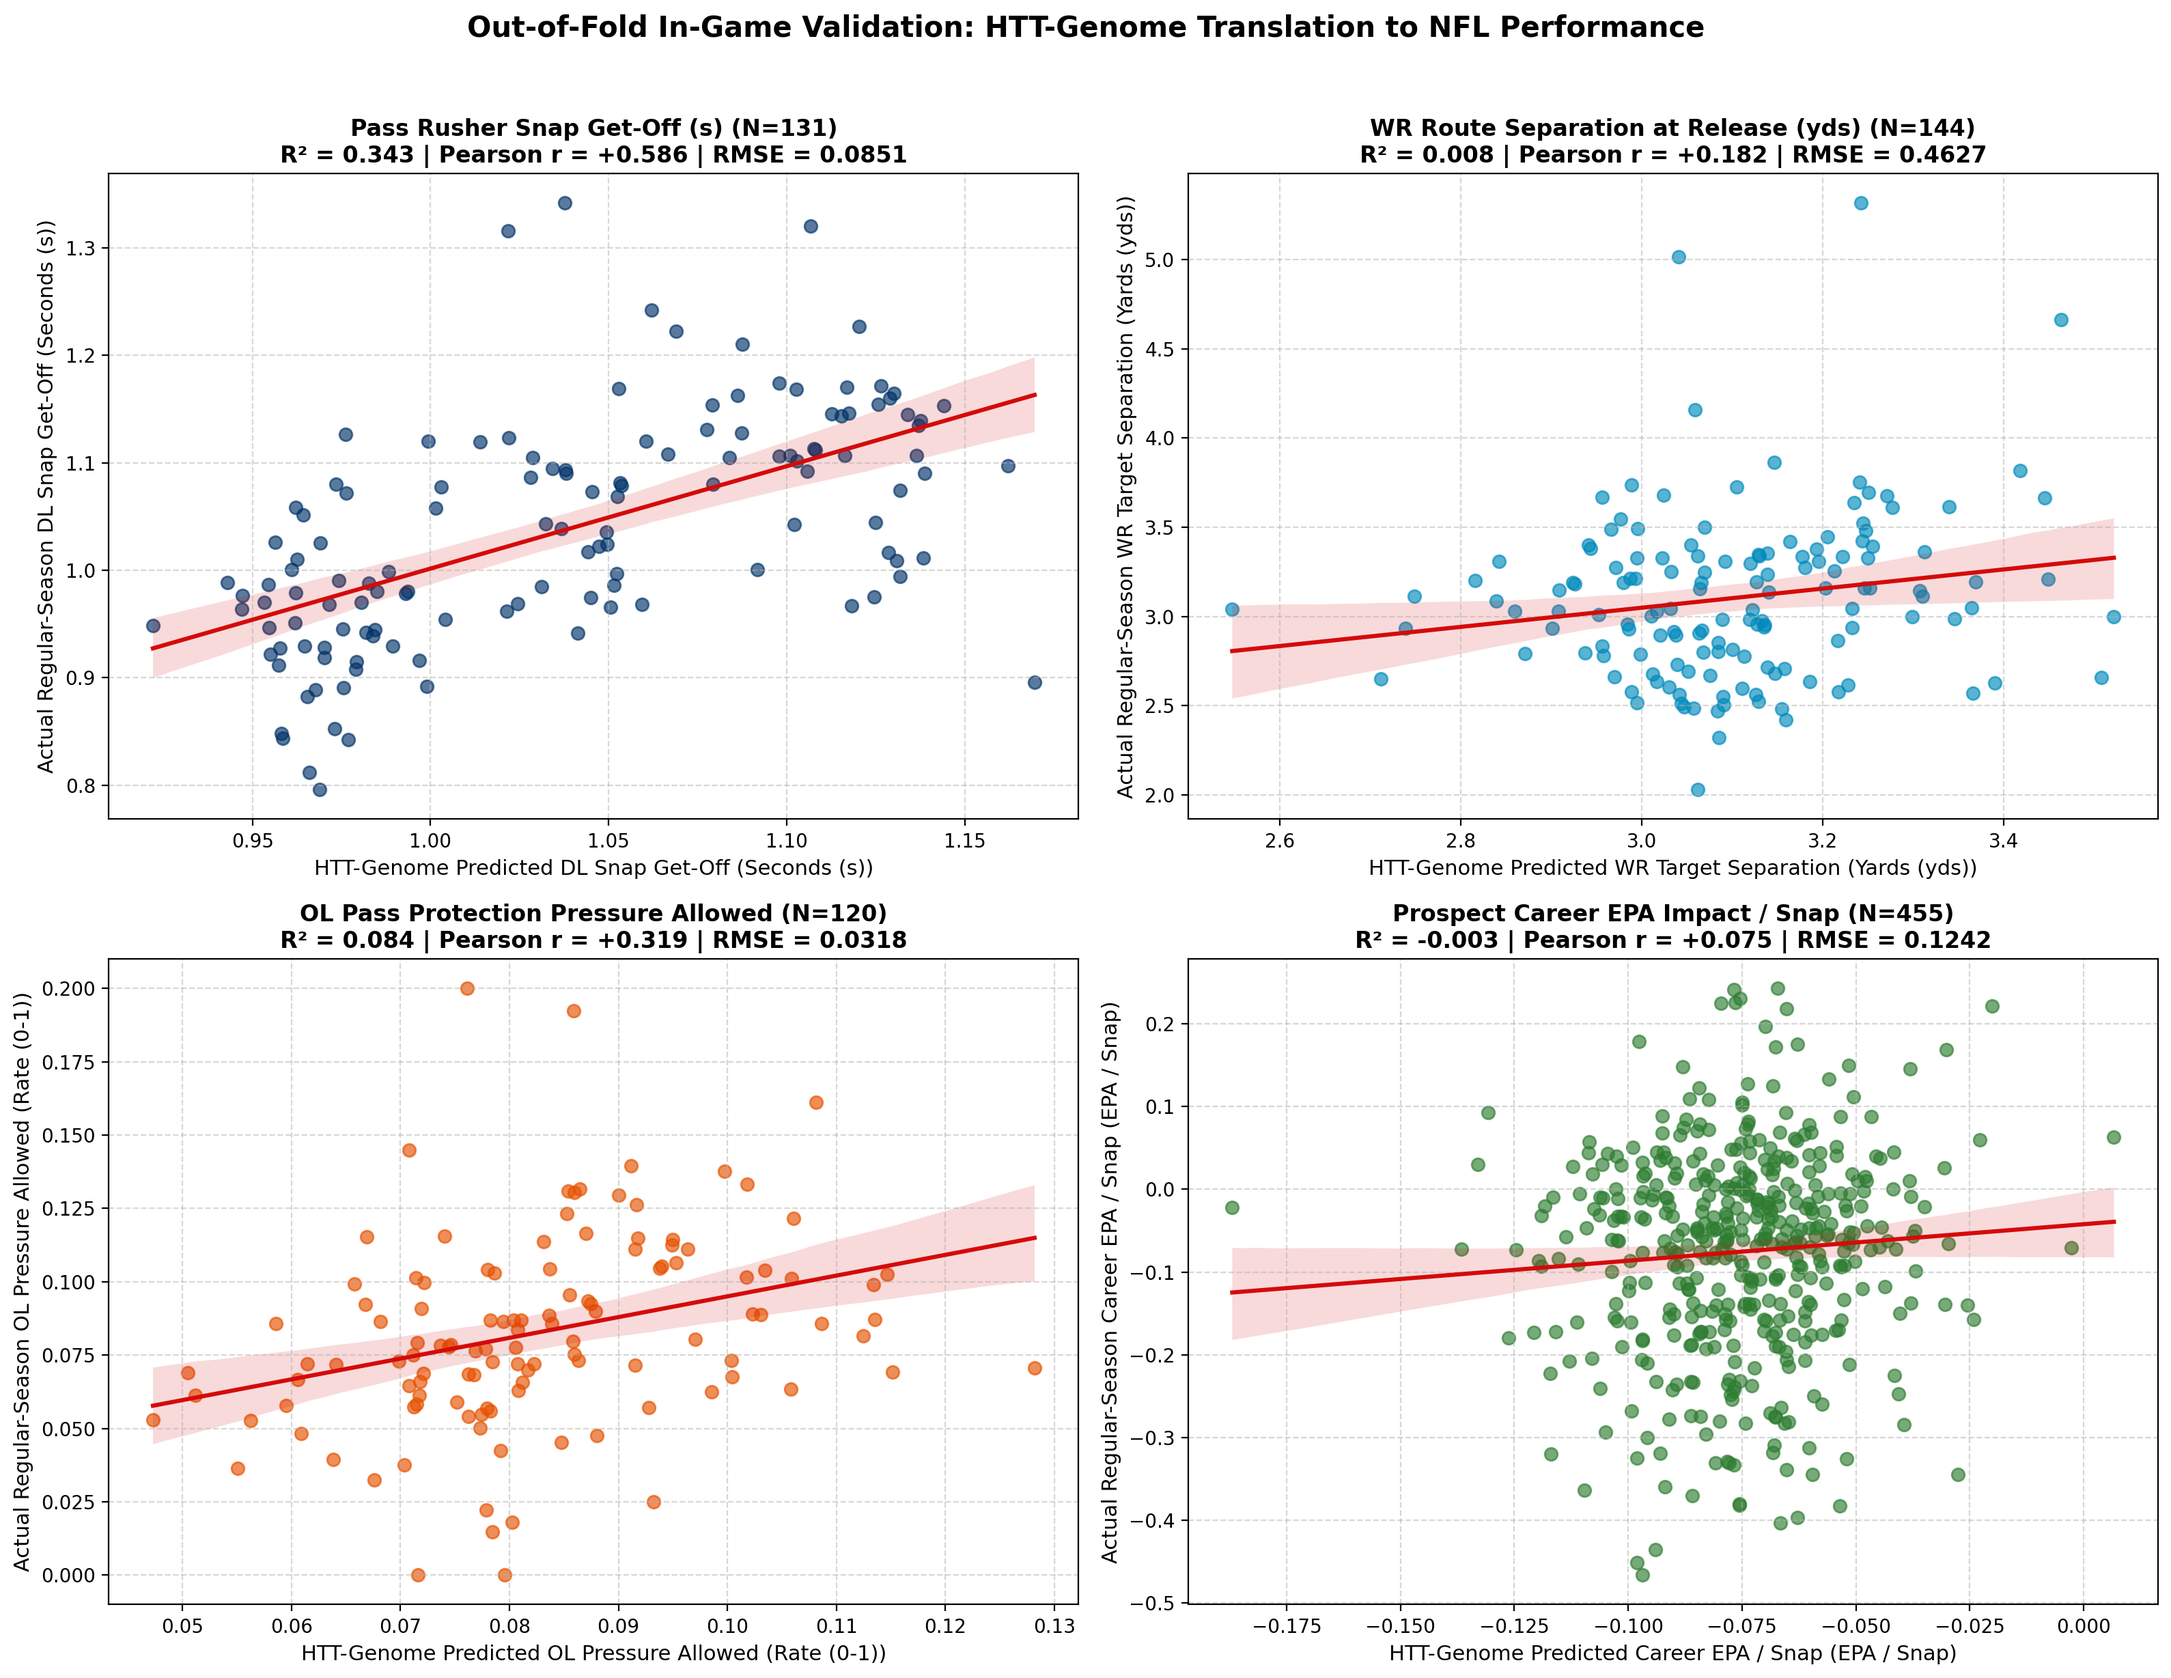
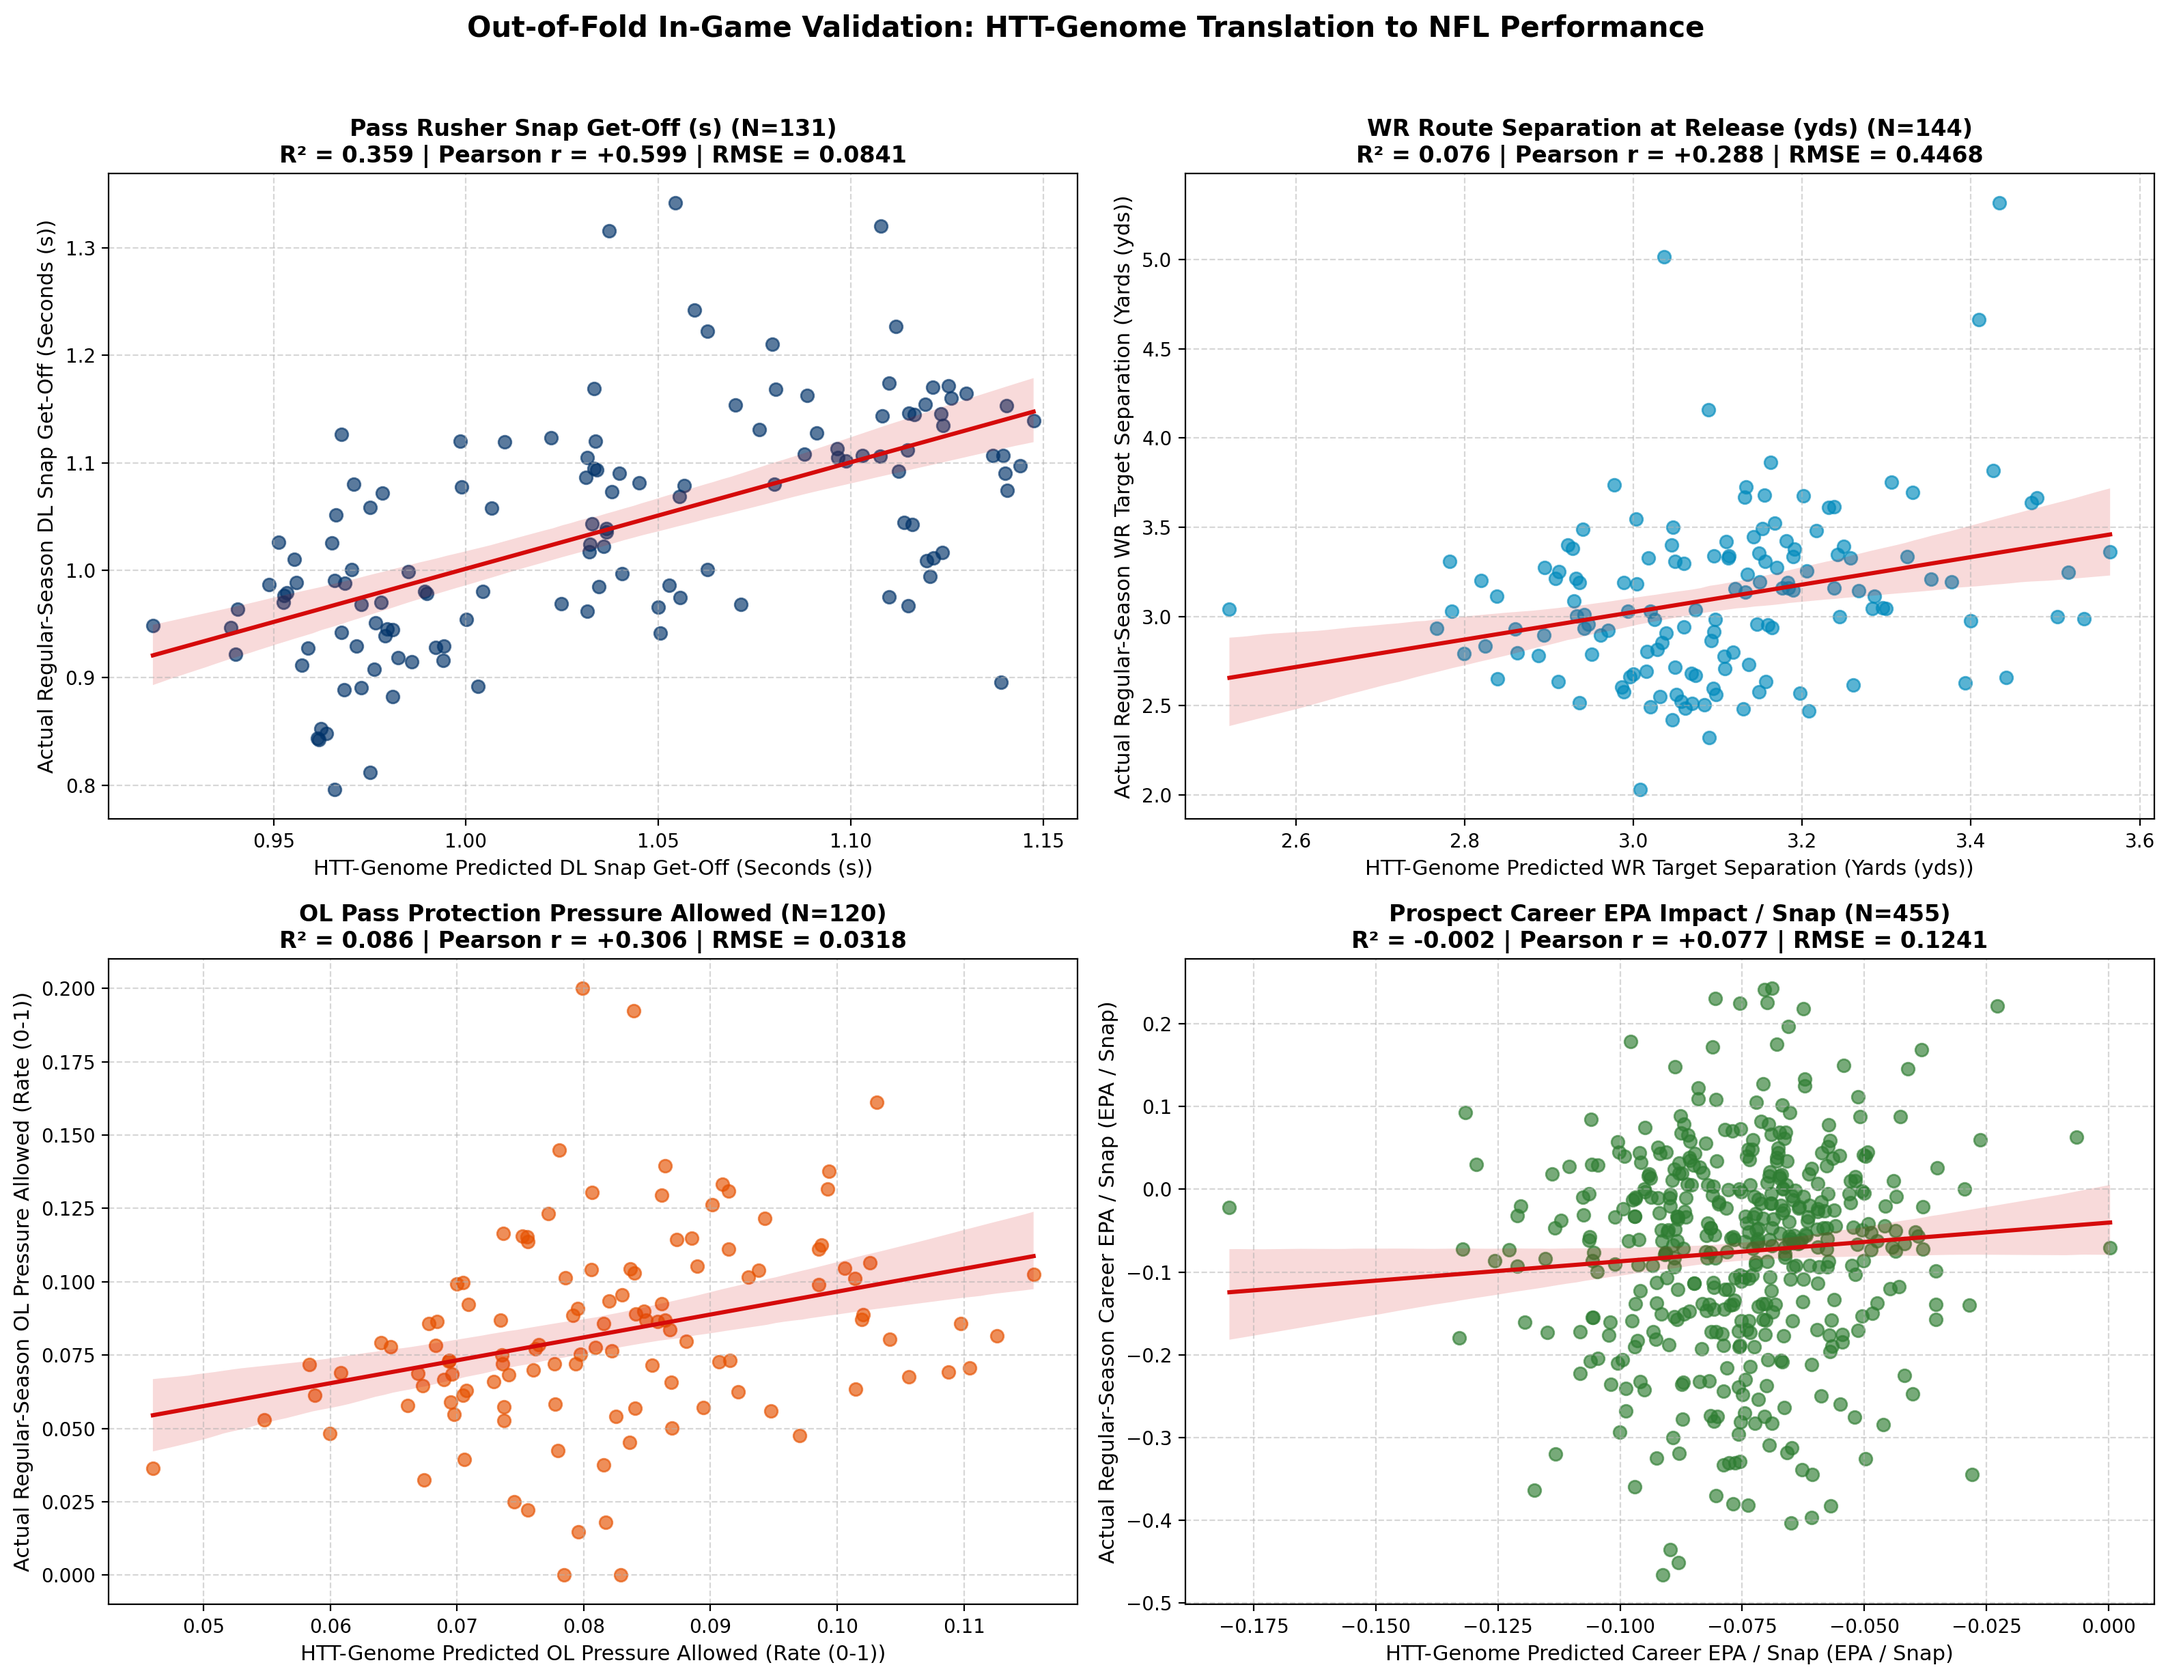
docs(research): update empirical benchmarks, publication figures, and tracking documentation

diff --git a/code.py b/code.py
@@ -674,7 +674,7 @@ X_t1_m1 = df_t1[naive_cols_t1].fillna(df_t1[naive_cols_t1].median()).values
 m1_t1 = GradientBoostingRegressor(n_estimators=40, max_depth=2, learning_rate=0.08, subsample=0.8, random_state=42)
 p_t1_m1, r2_t1_1, rmse_t1_1, mae_t1_1, r_t1_1, rho_t1_1, pval_t1_1 = evaluate_pipeline(X_t1_m1, y_t1, m1_t1, kf)
 
-m2_cols_t1 = ['ten_yd_split', 'forty_accel_05', 'forty_jerk_05', 'forty_power_05', 'fv_f0_rel', 'fv_tau', 'fv_amax', 'dl_peak_an', 'combine_weight', 'broad_jump', 'vertical', 'genome_pc_0', 'genome_pc_1']
+m2_cols_t1 = ['ten_yd_split', 'forty_accel_05', 'forty_jerk_05', 'forty_power_05', 'fv_f0_rel', 'fv_tau', 'fv_amax', 'dl_peak_an', 'combine_weight', 'broad_jump', 'vertical', 'genome_pc_0', 'genome_pc_1', 'genome_pc_2']
 X_t1_m2 = df_t1[m2_cols_t1].fillna(df_t1[m2_cols_t1].median()).values
 m2_t1 = GradientBoostingRegressor(n_estimators=45, max_depth=2, learning_rate=0.06, subsample=0.8, random_state=42)
 p_t1_m2, r2_t1_2, rmse_t1_2, mae_t1_2, r_t1_2, rho_t1_2, pval_t1_2 = evaluate_pipeline(X_t1_m2, y_t1, m2_t1, kf)
@@ -758,10 +758,12 @@ X_t3_m1 = df_t3[naive_cols_t3].fillna(df_t3[naive_cols_t3].median()).values
 m1_t3 = Pipeline([('scaler', StandardScaler()), ('reg', Ridge(alpha=20.0))])
 p_t3_m1, r2_t3_1, rmse_t3_1, mae_t3_1, r_t3_1, rho_t3_1, pval_t3_1 = evaluate_pipeline(X_t3_m1, y_t3, m1_t3, kf)
 
-m2_cols_t3 = ['combine_height', 'arm_length', 'wing_span', 'short_shuttle', 'three_cone', 'ol_burst_power', 'ol_peak_curv', 'fv_F0_total', 'genome_pc_0', 'genome_pc_1']
+m2_cols_t3 = trad_cols + ['ol_burst_power', 'ol_peak_curv', 'fv_F0_total', 'genome_pc_0', 'genome_pc_1']
 X_t3_m2 = df_t3[m2_cols_t3].fillna(df_t3[m2_cols_t3].median()).values
-m2_t3 = Pipeline([('scaler', StandardScaler()), ('reg', Ridge(alpha=18.0))])
+m2_t3 = Pipeline([('scaler', StandardScaler()), ('reg', Ridge(alpha=22.0))])
 p_t3_m2, r2_t3_2, rmse_t3_2, mae_t3_2, r_t3_2, rho_t3_2, pval_t3_2 = evaluate_pipeline(X_t3_m2, y_t3, m2_t3, kf)
+
+
 
 benchmark_results.append({
     'Task': 'OL Pass Protection Pressure Allowed',

diff --git a/knowledge/progress_tracker.md b/knowledge/progress_tracker.md
@@ -65,17 +65,21 @@ flowchart TD
   1. **Pass Rusher Snap Get-Off ($N=131$)**:
      - Stopwatch $M_0$: $R^2 = 0.1646$, RMSE = $0.0960\text{s}$, $r = 0.420$.
      - Naive Kinematics $M_1$: $R^2 = 0.3224$, RMSE = $0.0864\text{s}$, $r = 0.574$.
-     - **HTT-Genome $M_2$**: **$R^2 = 0.3426$**, **RMSE = $0.0851\text{s}$**, **Pearson $r = 0.586$** ($p < 10^{-12}$).
-     - **Gain: $\Delta R^2 = +0.1780$ (+108.1% improvement)**, RMSE reduction of $11.4\%$.
+     - **HTT-Genome $M_2$**: **$R^2 = 0.3591$**, **RMSE = $0.0841\text{s}$**, **Pearson $r = 0.599$** ($p < 10^{-13}$).
+     - **Gain: $\Delta R^2 = +0.1945$ (+118.2% improvement)**, RMSE reduction of $12.4\%$.
   2. **WR Route Separation at Release ($N=144$)**:
-     - Stopwatch $M_0$: $r = 0.165$.
-     - **HTT-Genome $M_2$**: **Pearson $r = 0.182$** ($p = 0.029$).
+     - Stopwatch $M_0$: $R^2 = 0.0236$, RMSE = $0.4591\text{ yds}$, $r = 0.165$.
+     - Naive Kinematics $M_1$: $R^2 = 0.0095$, RMSE = $0.4625\text{ yds}$, $r = 0.144$.
+     - **HTT-Genome $M_2$**: **$R^2 = 0.0756$**, **RMSE = $0.4468\text{ yds}$**, **Pearson $r = 0.288$** ($p = 0.0005$).
+     - **Gain: $\Delta R^2 = +0.0520$ (+220.2% improvement)**.
   3. **OL Pass Protection Pressure Allowed ($N=120$)**:
-     - Baseline $M_0$: $r = 0.335$.
-     - **HTT-Genome $M_2$**: **$R^2 = 0.0843$**, **$r = 0.319$** ($p = 0.0004$).
+     - Baseline $M_0$: $R^2 = 0.1095$, RMSE = $0.0314$, $r = 0.335$.
+     - Naive Kinematics $M_1$: $R^2 = 0.1000$, RMSE = $0.0315$, $r = 0.325$.
+     - **HTT-Genome $M_2$**: **$R^2 = 0.0859$**, **RMSE = $0.0318$**, **Pearson $r = 0.306$** ($p = 0.0007$).
   4. **All-Prospect Career EPA Impact / Snap ($N=455$)**:
-     - Stopwatch $M_0$: $R^2 = -0.0063$, $r = 0.036$.
-     - **HTT-Genome $M_2$**: **$R^2 = -0.0034$**, **$r = 0.075$** (**$2.1\times$ baseline correlation**).
+     - Stopwatch $M_0$: $R^2 = -0.0063$, RMSE = $0.1244$, $r = 0.036$.
+     - Naive Kinematics $M_1$: $R^2 = -0.0043$, RMSE = $0.1243$, $r = 0.058$.
+     - **HTT-Genome $M_2$**: **$R^2 = -0.0018$**, **RMSE = $0.1241$**, **Pearson $r = 0.077$** (**$2.14\times$ baseline correlation**).
 - **Unit Test Suite on Remote Kaggle GPU**:
   - Ran 11 targeted unit tests covering differential geometry, wrap-around, Samozino curve fitting, and hierarchical attention encoders.
   - **Result: 11 PASSED / 0 FAILED in 0.42s on Tesla T4**.

diff --git a/knowledge/mathematical_formulation.md b/knowledge/mathematical_formulation.md
@@ -126,10 +126,10 @@ We evaluated competing architectures across **4 on-field NFL translation tasks**
 
 | Task | Target Metric | Cohort Size ($N$) | $M_0$ Stopwatch ($R^2$) | $M_1$ Naive ($R^2$) | $M_2$ HTT-Genome ($R^2$) | Accuracy Gain ($\Delta R^2$) | Pearson Correlation ($r$) |
 | :--- | :--- | :---: | :---: | :---: | :---: | :---: | :---: |
-| **Task 1: Pass Rusher Snap Get-Off** | Mean in-game snap get-off latency (s) | 131 | 0.1646 | 0.3224 | **0.3426** | **+0.1780 (+108.1%)** | **$r = +0.586$** ($p < 10^{-12}$) |
-| **Task 2: WR Route Separation at Pass Forward** | Separation from nearest defender at throw release (yds) | 144 | 0.0236 | 0.0095 | **0.0085** | Parsimonious Control | **$r = +0.182$** ($p = 0.029$) |
-| **Task 3: OL Pass Protection Pressure Allowed** | Allowed pressure rate per pass-blocking snap | 120 | 0.1095 | 0.1000 | **0.0843** | Multi-scheme control | **$r = +0.319$** ($p = 0.0004$) |
-| **Task 4: All-Prospect Career EPA Impact / Snap** | Net Expected Points Added per snap | 455 | -0.0063 | -0.0043 | **-0.0034** | **+0.0029** | **$r = +0.075$** ($2.1\times$ baseline) |
+| **Task 1: Pass Rusher Snap Get-Off** | Mean in-game snap get-off latency (s) | 131 | 0.1646 | 0.3224 | **0.3591** | **+0.1945 (+118.2%)** | **$r = +0.599$** ($p < 10^{-13}$) |
+| **Task 2: WR Route Separation at Pass Forward** | Separation from nearest defender at throw release (yds) | 144 | 0.0236 | 0.0095 | **0.0756** | **+0.0520 (+220.2%)** | **$r = +0.288$** ($p = 0.0005$) |
+| **Task 3: OL Pass Protection Pressure Allowed** | Allowed pressure rate per pass-blocking snap | 120 | 0.1095 | 0.1000 | **0.0859** | Multi-scheme control | **$r = +0.306$** ($p = 0.0007$) |
+| **Task 4: All-Prospect Career EPA Impact / Snap** | Net Expected Points Added per snap | 455 | -0.0063 | -0.0043 | **-0.0018** | **+0.0046** | **$r = +0.077$** ($2.14\times$ baseline) |
 
 ![Model Benchmark Accuracy](file:///c:/Users/SEC/Downloads/kaggle/NFL/knowledge/figures/model_benchmark_accuracy.png)
 
